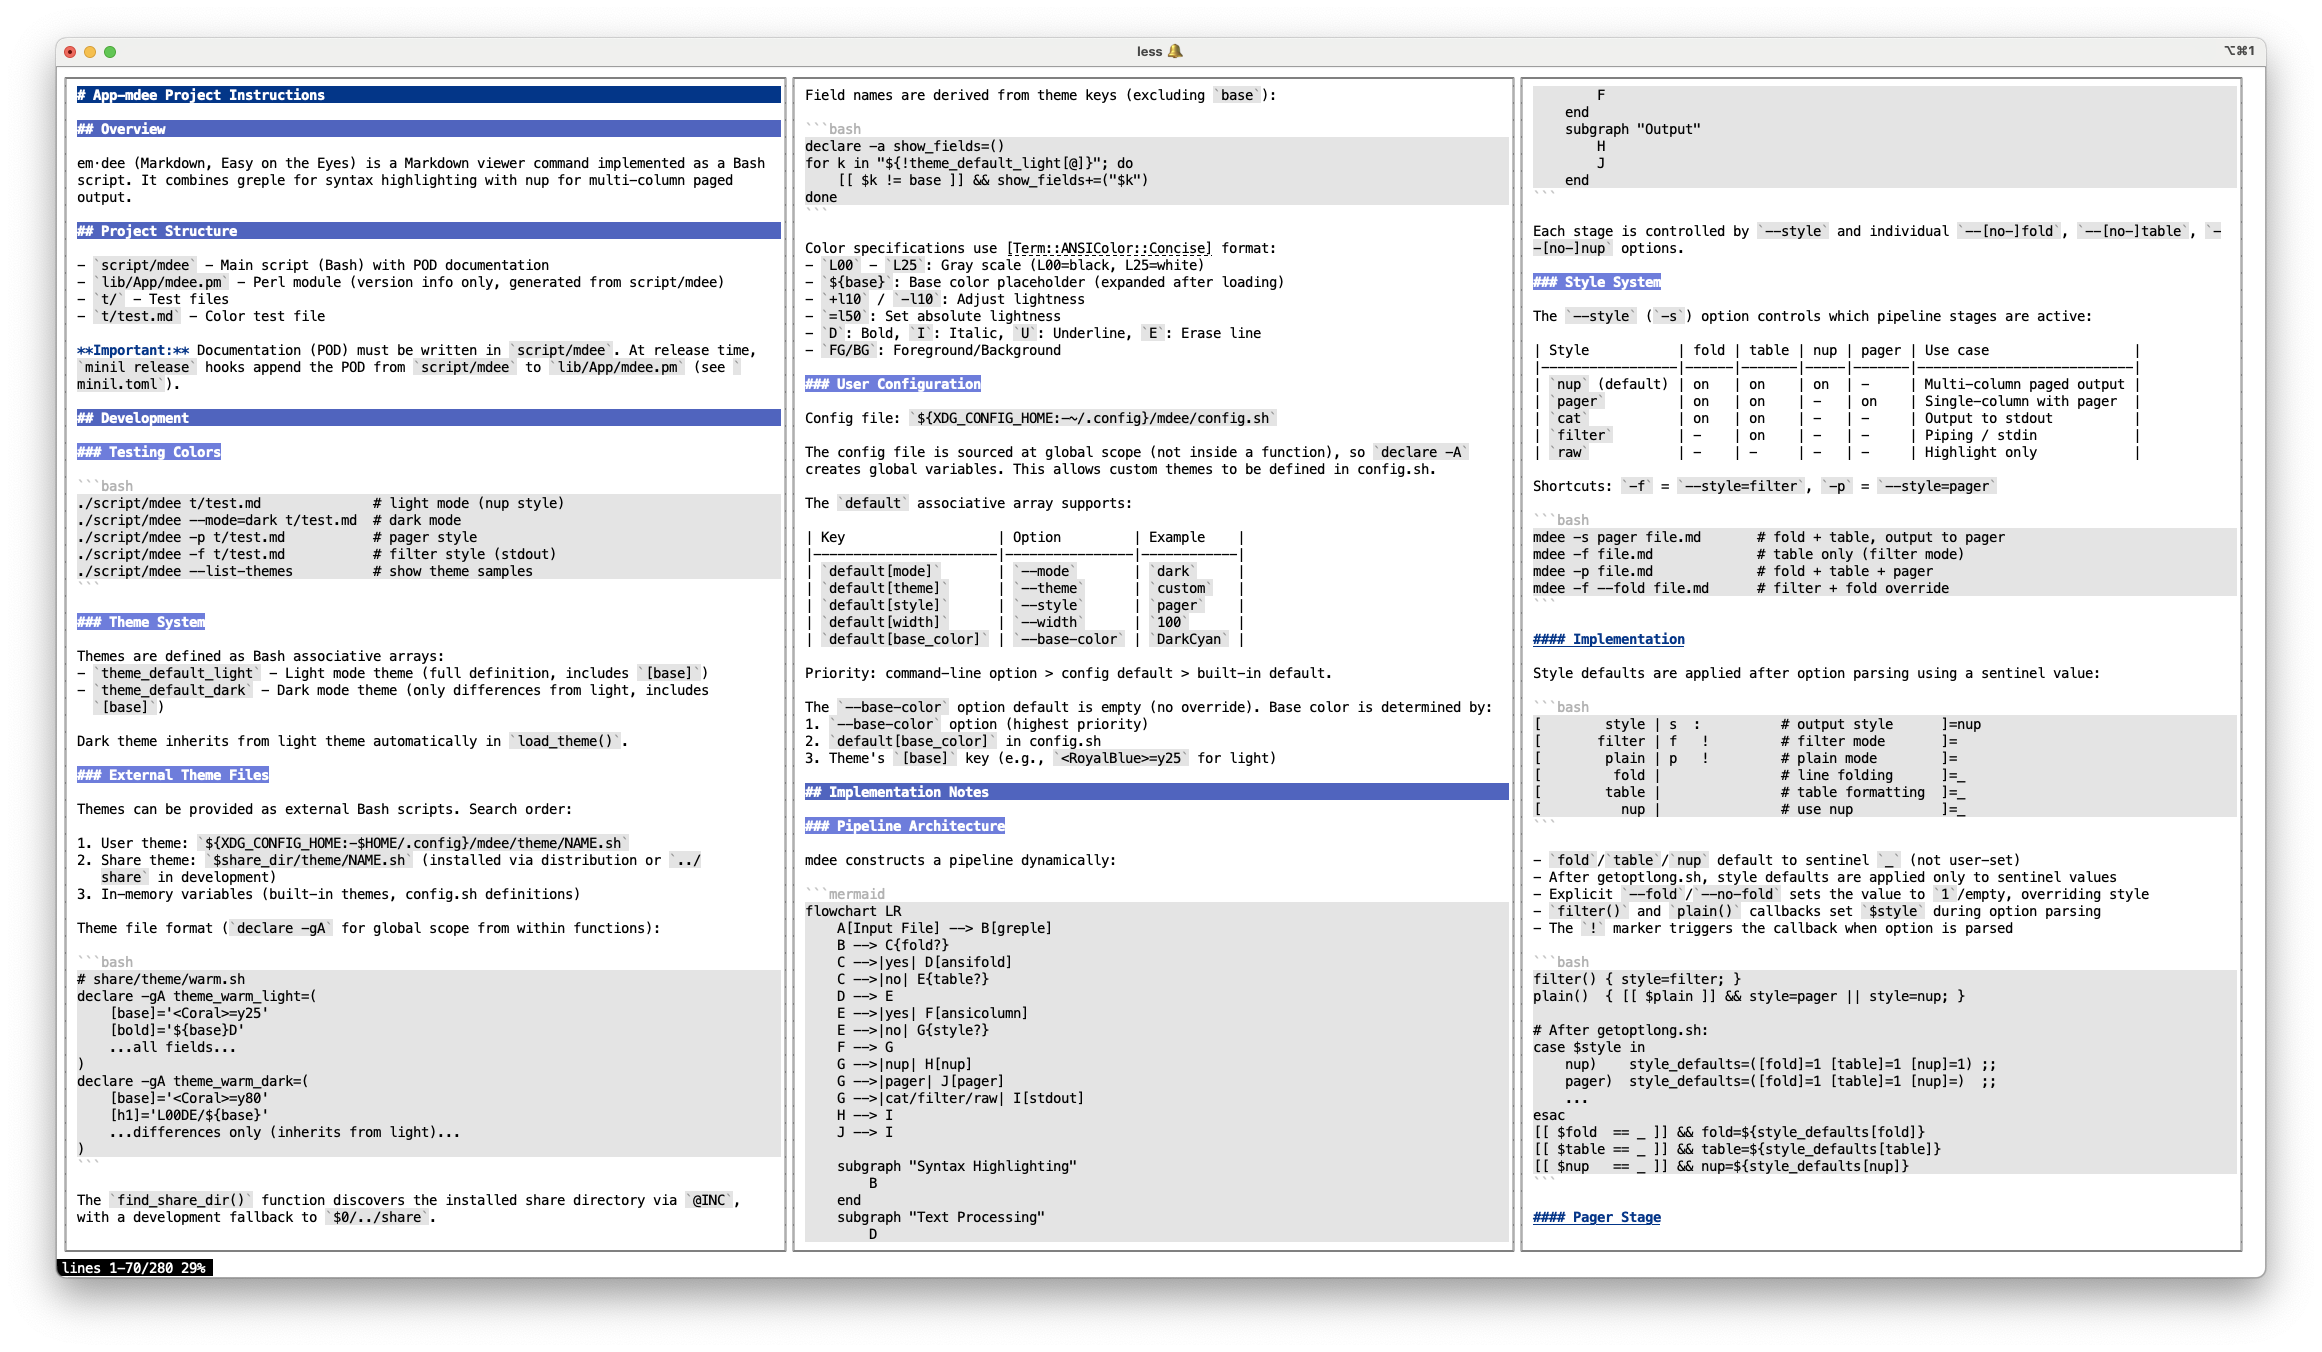
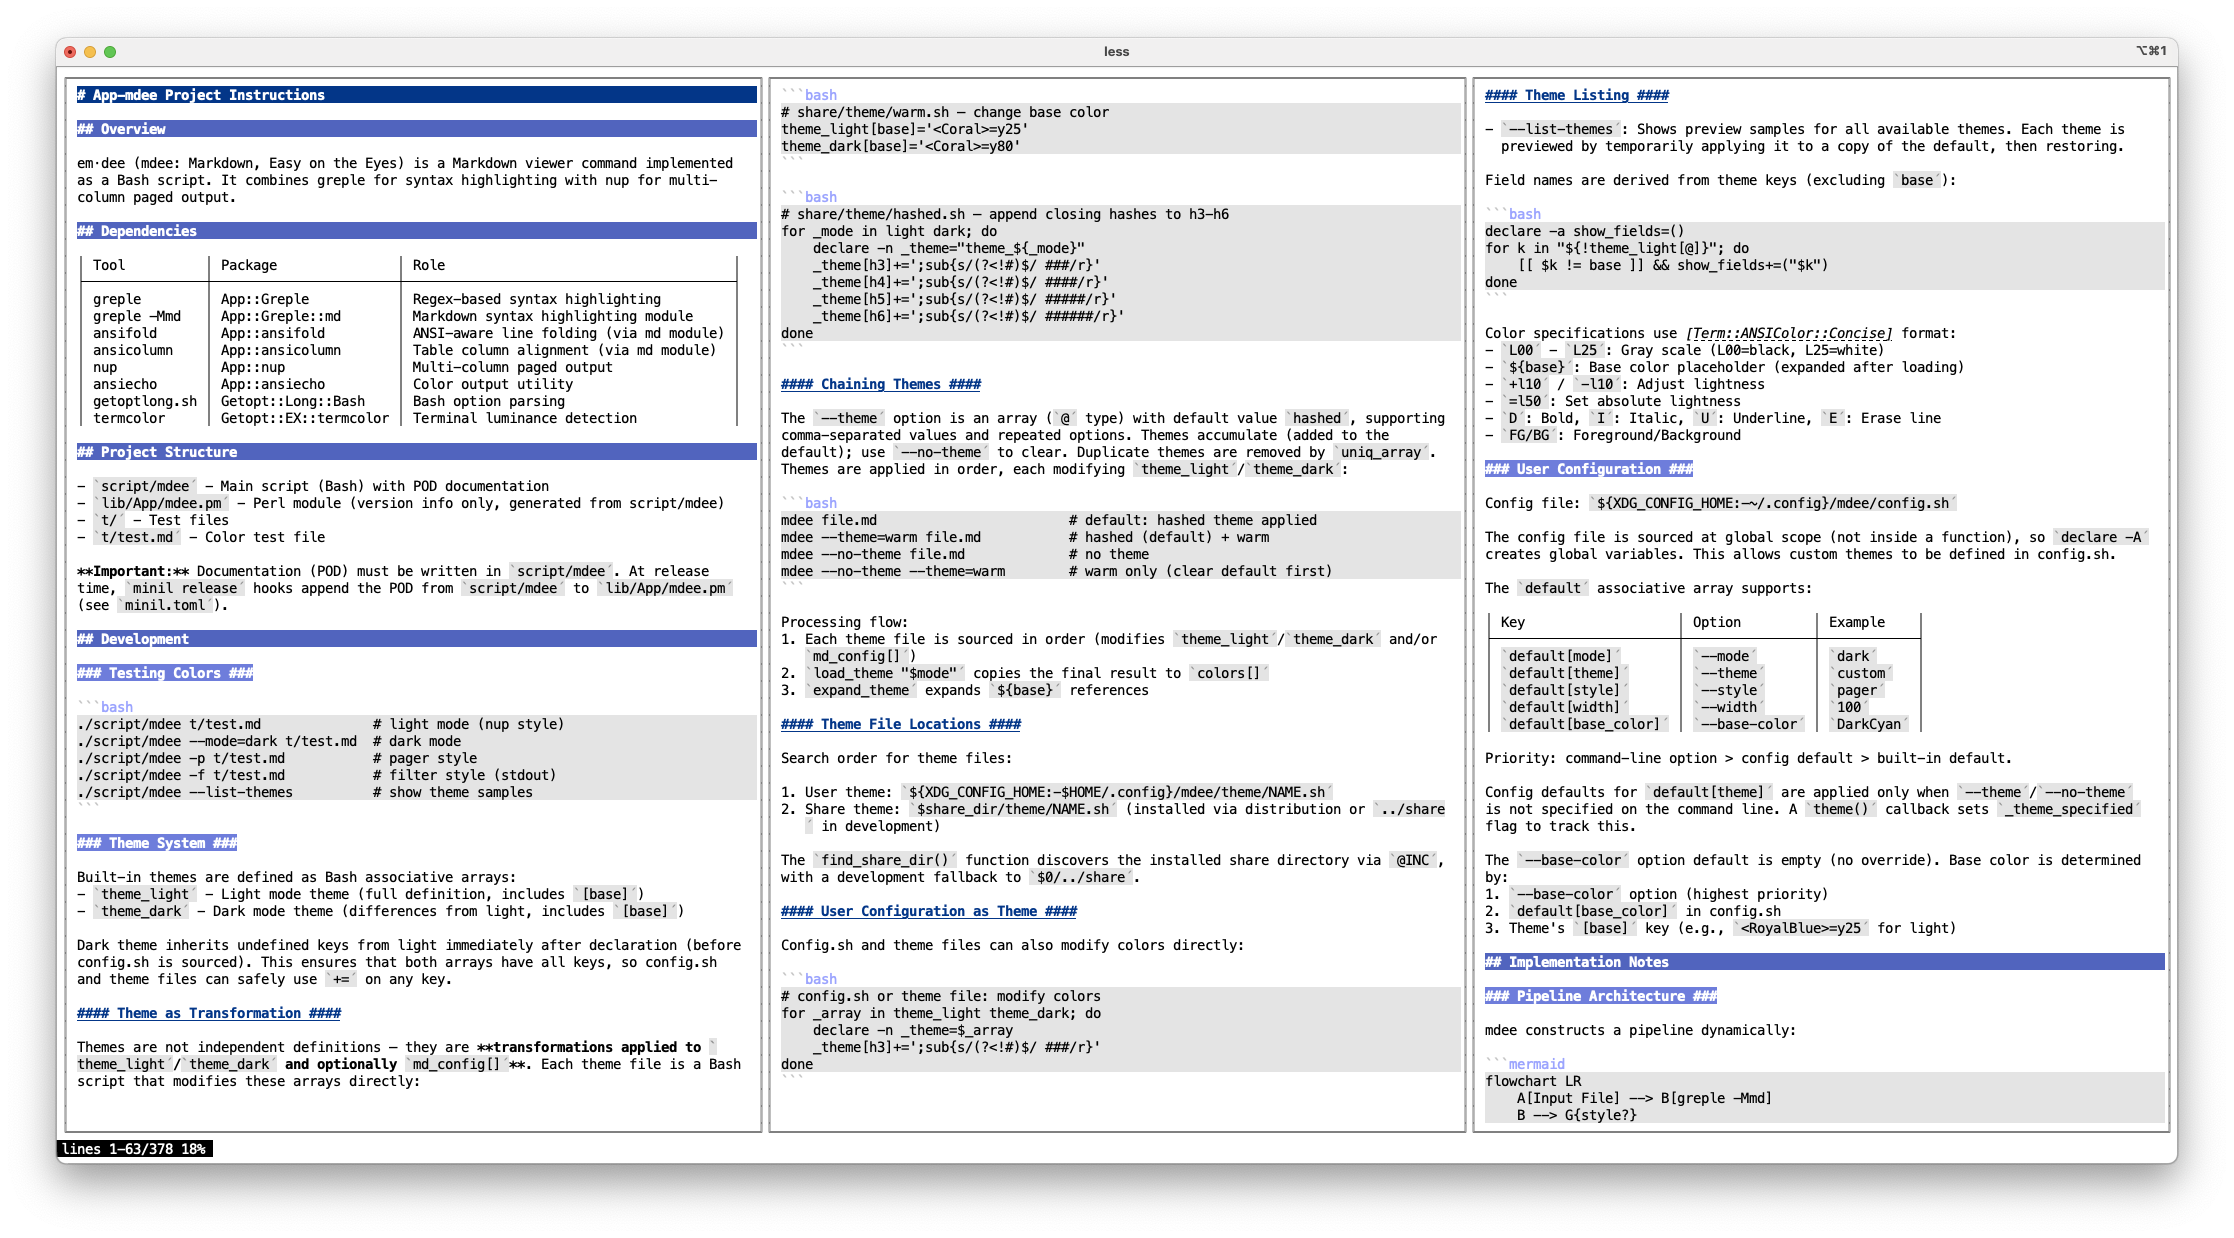
update images

diff --git a/README.md b/README.md
@@ -110,7 +110,7 @@ output to stdout without a pager, suitable for piping into
 other commands.
 
 <div>
-    <p><img width="750" src="https://raw.githubusercontent.com/tecolicom/App-mdee/main/images/3-column.png">
+    <p><img width="1000" src="https://raw.githubusercontent.com/tecolicom/App-mdee/main/images/3-column.png">
 </div>
 
 # INSTALLATION
